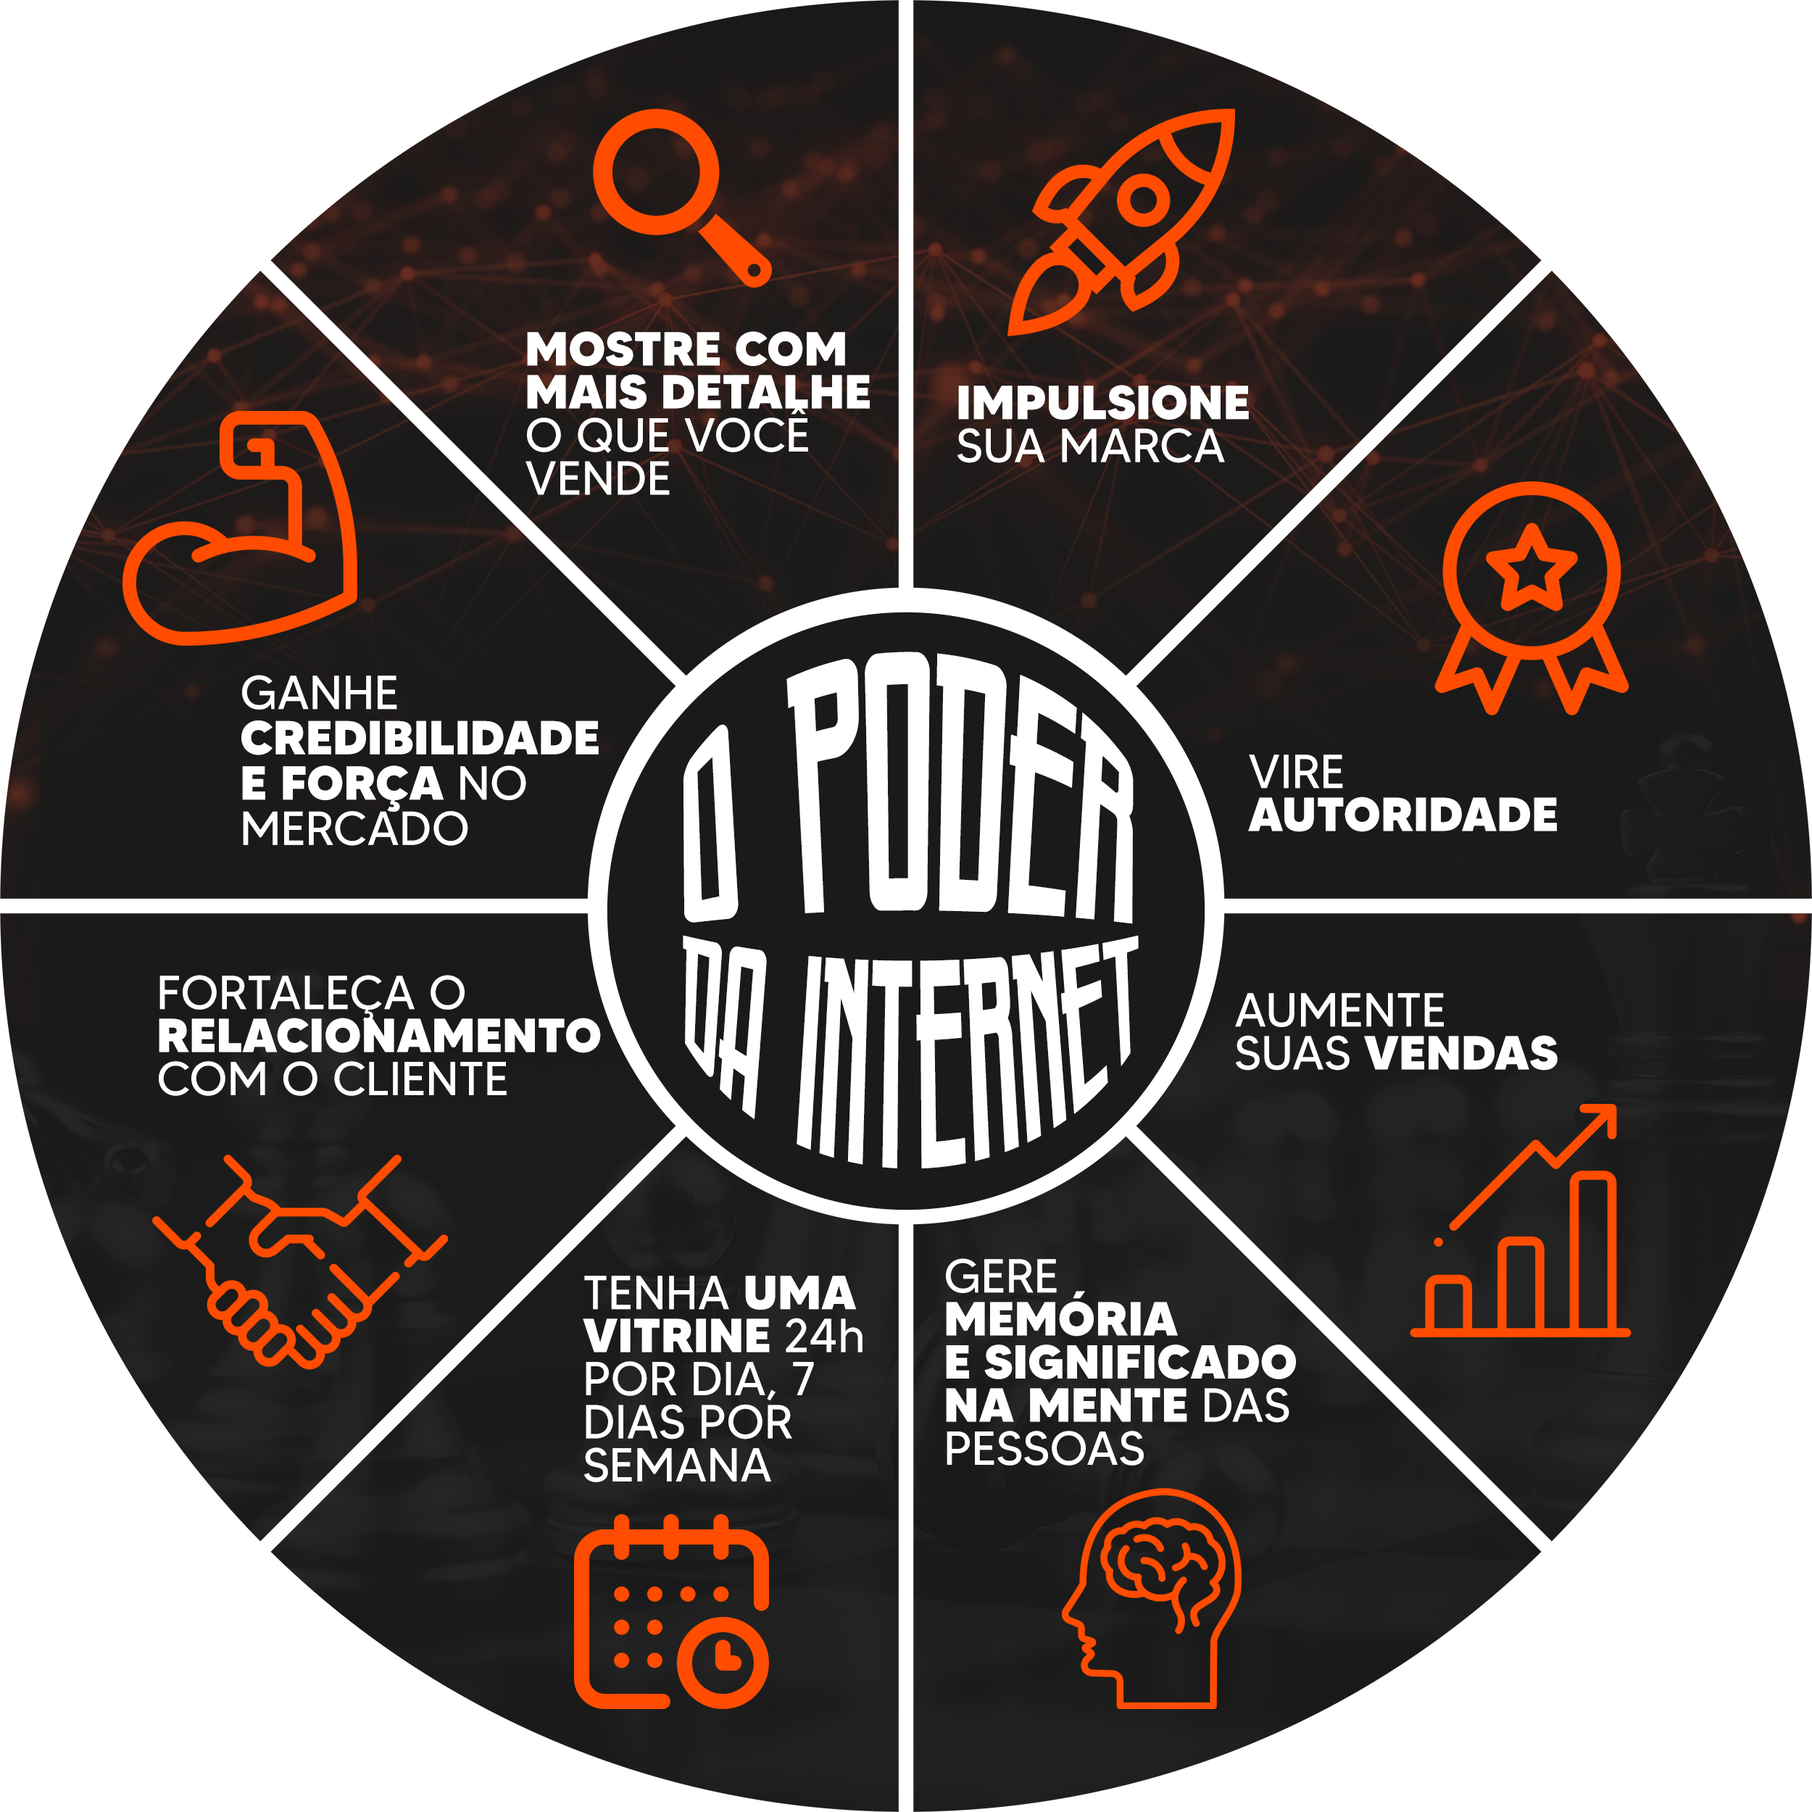
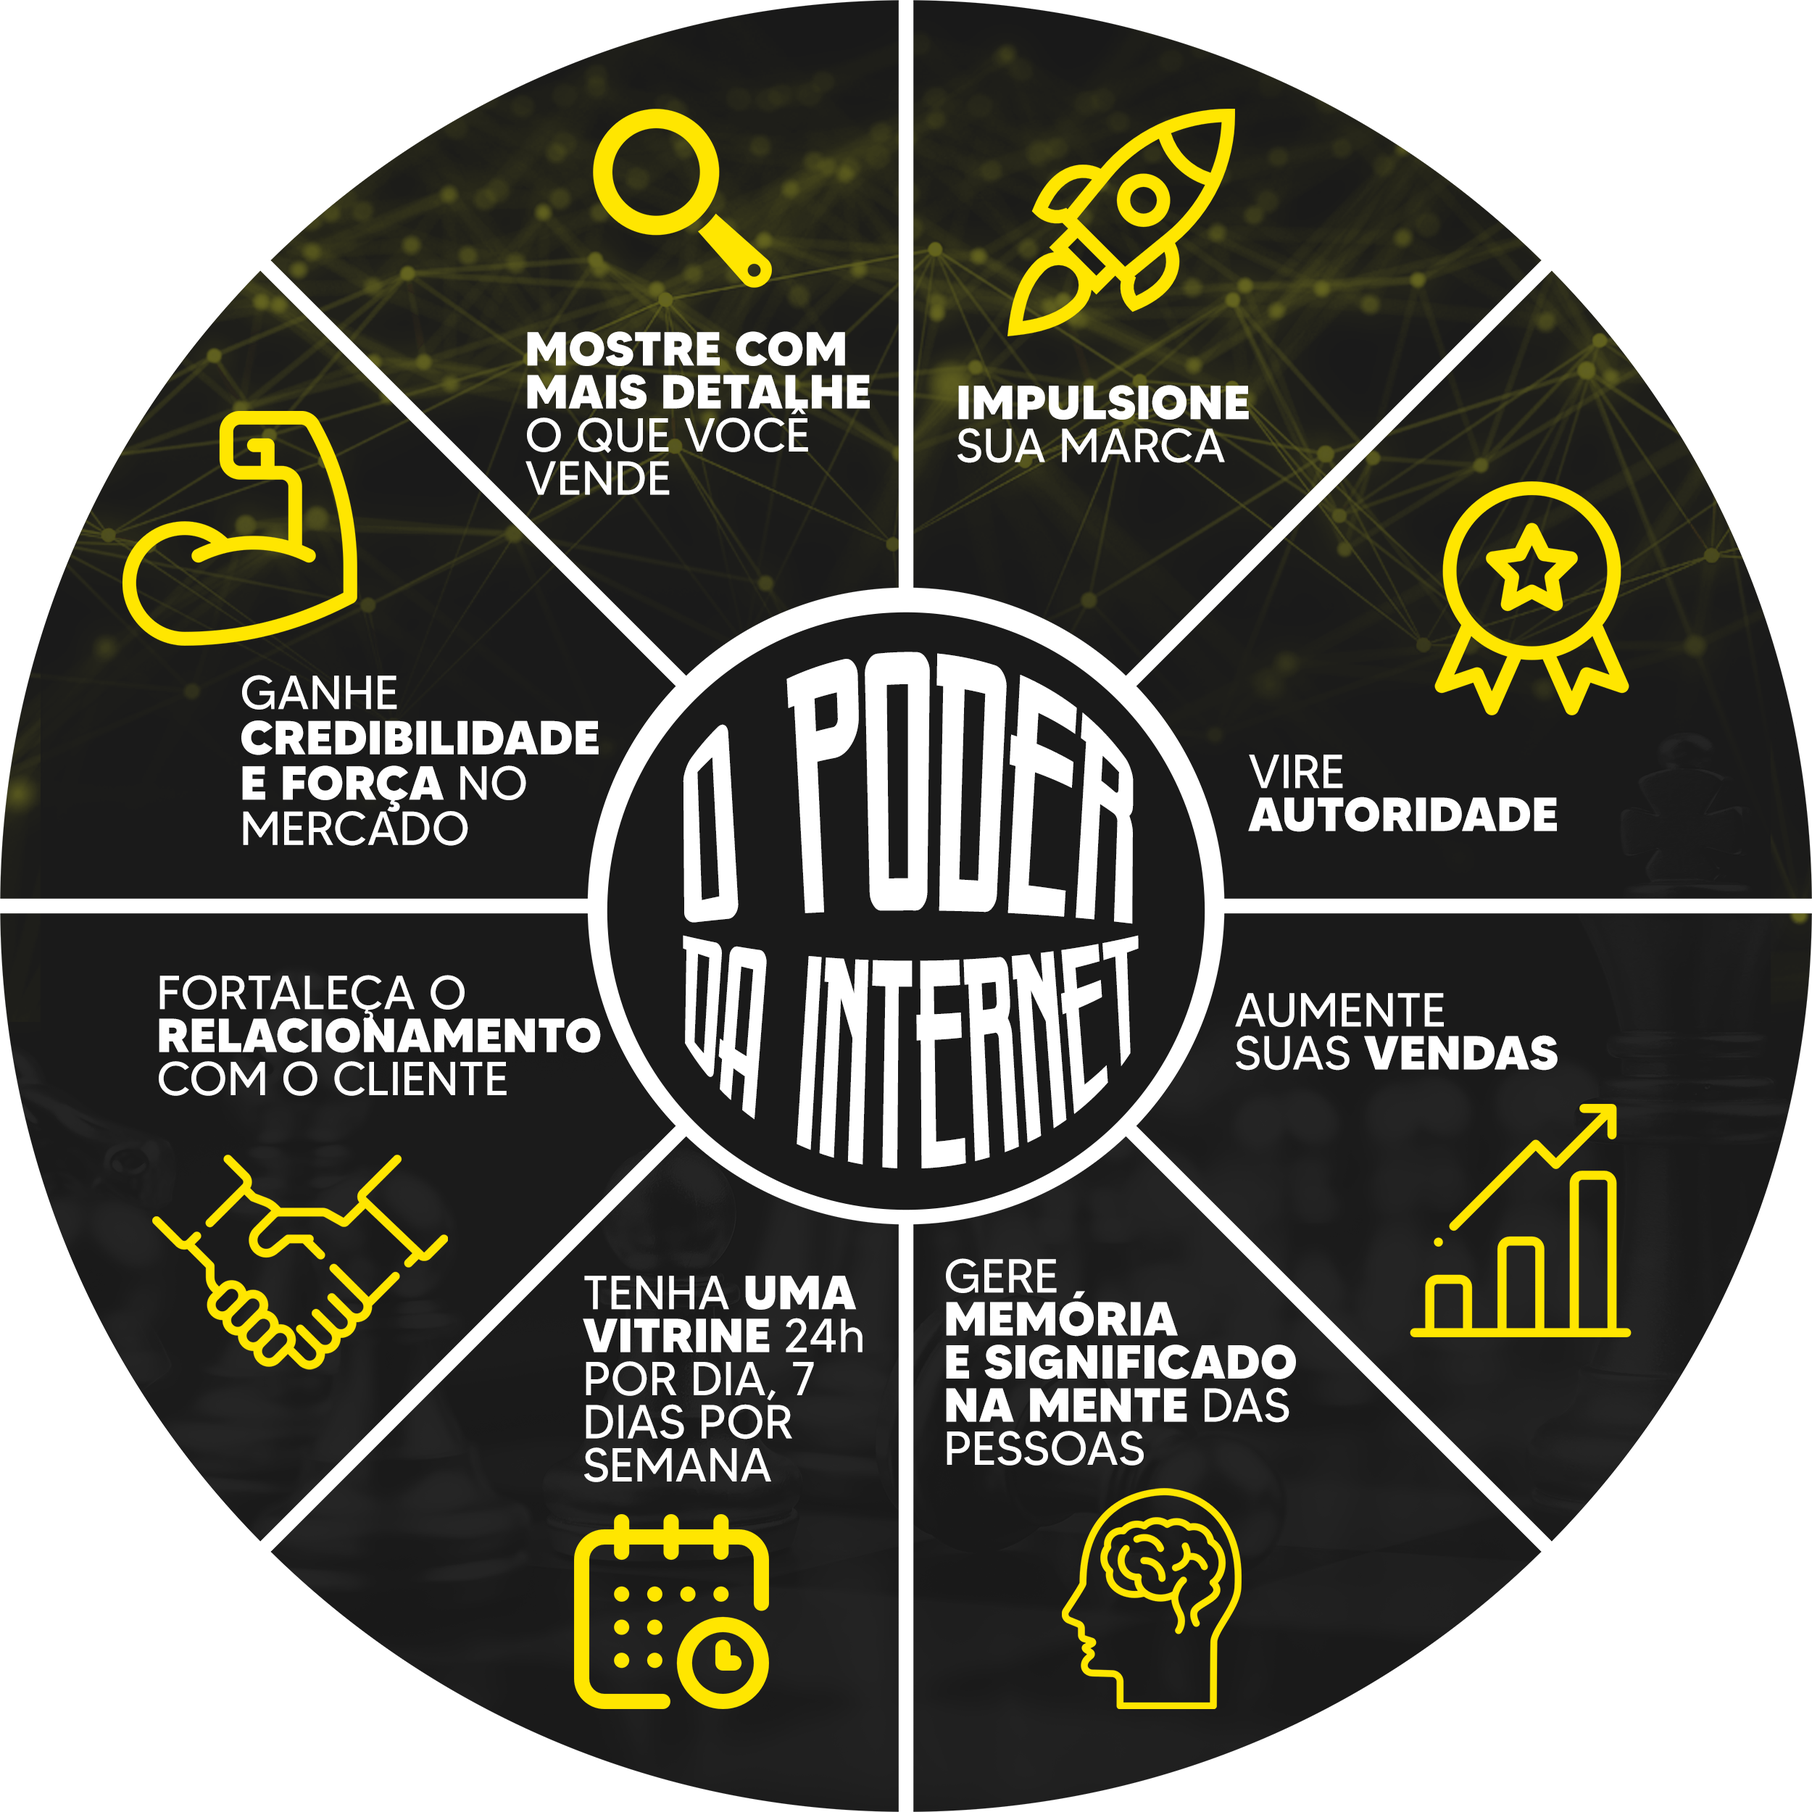
Update marcão informatica/tabuleiro

diff --git a/marcaoinformatica/index.html b/marcaoinformatica/index.html
@@ -177,19 +177,16 @@
                 <div class="col-12 col-md-4 about-media wow zoomIn" data-wow-duration="1.5s" data-wow-delay="1.2s">
                     <span class="about-icon"><a href="javascript:void(0);"><i class="la la-laptop-code"></i></a></span>
                     <h4 class="small-heading main-font">Venda de equipamentos</h4>
-                    <p class="small-text alt-font">Lorem ipsum dolor sit amet, consectetur adipiscing elit.</p>
                 </div>
                 <!-- Second Skill -->
                 <div class="col-12 col-md-4 about-media wow zoomIn" data-wow-duration="1.5s" data-wow-delay="1.5s">
                     <span class="about-icon"><a href="javascript:void(0);"><i class="las la-server"></i></a></span>
                     <h4 class="small-heading main-font">Assistência Técnica</h4>
-                    <p class="small-text alt-font">Lorem ipsum dolor sit amet, consectetur adipiscing elit.</p>
                 </div>
                 <!-- Third Skill -->
                 <div class="col-12 col-md-4 about-media wow zoomIn" data-wow-duration="1.5s" data-wow-delay="1.8s">
-                    <span class="about-icon"><a href="javascript:void(0);"><i class="las la-registered"></i></a></span>
-                    <h4 class="small-heading main-font">Domain Registration</h4>
-                    <p class="small-text alt-font">Lorem ipsum dolor sit amet, consectetur adipiscing elit.</p>
+                    <span class="about-icon"><a href="javascript:void(0);"><i class="las la-edit"></i></a></span>
+                    <h4 class="small-heading main-font">Consultoria de projetos</h4>
                 </div>
             </div>
         </div>
@@ -216,14 +213,13 @@
             <!-- Content -->
             <div class="col-sm-12 col-md-6 pl-md-5 wow fadeInRight order-1 order-md-1" data-wow-duration="1.5s" data-wow-delay=".5s">
                 <div class="about-heading">
-                    <h1 class="heading margin_heading main-font">Conheça um pouco sobre nossa história</h1>
-                    <p class="info">Lorem ipsum dolor sit amet, consectetur adipiscing elit. Nunc mauris arcu. Lorem ipsum dolor sit amet.</p>
-                    <p class="info my-4">Há mais de xx anos oferecendo os melhores serviços 
+                    <h1 class="heading margin_heading main-font">Conheça um pouco sobre nossa loja</h1>
+                    <p class="info my-4">Oferecemos os melhores serviços 
                         para o melhor desempenho de suas atividades, para disponibilizar o que mais combina com seu estilo. 
                         Nos preocupamos com seu aparelho, buscando entregá-lo em ótimo estado e realizando as devidas funções. 
                         Sabemos da importância de revisar ou restaurar os dispositivos, aumentando a vida útil do mesmo, possibilitando um melhor desempenho.
                         </p>
-                    <a href="#prices" class="scroll btn btn-medium btn-rounded btn-blue mt-2">Learn More</a>
+                    <a href="#contact" class="scroll btn btn-medium btn-rounded btn-blue mt-2">Quero conhecer</a>
                 </div>
             </div>
         </div>
@@ -241,7 +237,7 @@
                     <h6 class="counter-num">25+</h6>
                 </div>
                 <h4 class="stats-heading">Fornecedores</h4>
-                <p class="stats-para">Lorem ipsum dolor sit amet.</p>
+                <p class="stats-para">Contamos com diversos fornecedores para melhor lhe atender.</p>
             </div>
             <!-- Second Circle -->
             <div class="col-12 col-lg-4 wow bounceIn wrap-2">
@@ -249,7 +245,7 @@
                     <h6 class="counter-num">1250+</h6>
                 </div>
                 <h4 class="stats-heading">Produtos</h4>
-                <p class="stats-para">Lorem ipsum dolor sit amet.</p>
+                <p class="stats-para">Temos uma gama extensa de produtos para suprir sua demanda.</p>
             </div>
             <!-- Third Circle -->
             <div class="col-12 col-lg-4 wow bounceIn">
@@ -257,7 +253,7 @@
                     <h6 class="counter-num">527+</h6>
                 </div>
                 <h4 class="stats-heading">Clientes</h4>
-                <p class="stats-para">Lorem ipsum dolor sit amet.</p>
+                <p class="stats-para">Temos os mais incríveis clientes, tendo a nossa prova viva da qualidade de serviço.</p>
             </div>
         </div>
     </div>
@@ -286,7 +282,7 @@
         <div class="row text-center">
             <div class="col-12 col-md-10 col-lg-8 offset-md-1 offset-lg-2 wow zoomIn heading-area" data-wow-duration="1s" data-wow-delay=".1s">
                 <h3 class="heading text-center"> Veja alguns de nossos planos.</h3>
-                <p class="text text-center">Lorem ipsum dolor sit amet, consectetur adipiscing elit, sed do eiusmod tempor incididunt ut labore et dolore magna aliqua. Quis ipsum suspendisse ultrices gravida.</p>
+                <p class="text text-center">Confira abaixo o melhor plano para você!</p>
             </div>
         </div>
         <div class="row padding-top-half">
@@ -294,54 +290,54 @@
             <div class="col-12 col-lg-4 wow fadeInLeftBig" data-wow-delay=".4s">
                 <div class="price-item text-center">
                     <div class="price_header">
-                        <p class="price_header_text">Starter Plan</p>
+                        <p class="price_header_text">Diagnóstico</p>
                     </div>
-                    <p class="actual_price">$19<br><span class="small_font">3 Month</span> </p>
+                    <p class="actual_price">R$65<br><span class="small_font">A partir</span> </p>
                     <ul class="price-list">
-                        <li>Modern & Creative Design</li>
-                        <li>Premium Plugins</li>
-                        <li>Clean Code</li>
-                        <li>Responsive Layouts</li>
-                        <li>Google Fonts</li>
-                        <li>Highly Customizable</li>
+                        <li>Desktop</li>
+                        <li>Notebook</li>
+                        <li>Netbook</li>
+                        <li>Hardware em geral</li>
+                        <li>Software em geral</li>
+                        <li>Periféricos</li>
                     </ul>
-                    <a href="#" class="scroll btn btn-medium btn-rounded btn-blue-dark-white mb-5">Load More</a>
+                    <a href="#" class="scroll btn btn-medium btn-rounded btn-blue-dark-white mb-5">Saiba Mais</a>
                 </div>
             </div>
             <!-- Price-2 -->
             <div class="col-12 col-lg-4 wow fadeIn" data-wow-delay=".8s">
                 <div class="price-item-center text-center">
                     <div class="price_header-center">
-                        <p class="price_header_text">Standard Plan</p>
+                        <p class="price_header_text">Combo Diagnóstico + Manutenção</p>
                     </div>
-                    <p class="actual_price">$59<br><span class="small_font">6 Months</span> </p>
+                    <p class="actual_price">R$120<br><span class="small_font">A partir</span> </p>
                     <ul class="price-list">
-                        <li>Modern & Creative Design</li>
-                        <li>Premium Plugins</li>
-                        <li>Clean Code</li>
-                        <li>Responsive Layouts</li>
-                        <li>Google Fonts</li>
-                        <li>Highly Customizable</li>
+                        <li>Desktop</li>
+                        <li>Notebook</li>
+                        <li>Netbook</li>
+                        <li>Hardware em geral</li>
+                        <li>Software em geral</li>
+                        <li>Periféricos</li>
                     </ul>
-                    <a href="#" class="scroll btn btn-medium btn-rounded btn-primary mb-5">Load More</a>
+                    <a href="#" class="scroll btn btn-medium btn-rounded btn-primary mb-5">Saiba Mais</a>
                 </div>
             </div>
             <!-- Price-3 -->
             <div class="col-12 col-lg-4 wow fadeInRightBig" data-wow-delay=".4s">
                 <div class="price-item text-center">
                     <div class="price_header">
-                        <p class="price_header_text">Premium Plan</p>
+                        <p class="price_header_text">Manutenção Corretiva</p>
                     </div>
-                    <p class="actual_price">$99<br><span class="small_font">12 Months</span> </p>
+                    <p class="actual_price">R$90<br><span class="small_font">A partir</span> </p>
                     <ul class="price-list">
-                        <li>Modern & Creative Design</li>
-                        <li>Premium Plugins</li>
-                        <li>Clean Code</li>
-                        <li>Responsive Layouts</li>
-                        <li>Google Fonts</li>
-                        <li>Highly Customizable</li>
+                        <li>Desktop</li>
+                        <li>Notebook</li>
+                        <li>Netbook</li>
+                        <li>Hardware em geral</li>
+                        <li>Software em geral</li>
+                        <li>Periféricos</li>
                     </ul>
-                    <a href="#" class="scroll btn btn-medium btn-rounded btn-blue-dark-white mb-5">Load More</a>
+                    <a href="#" class="scroll btn btn-medium btn-rounded btn-blue-dark-white mb-5">Saiba Mais</a>
                 </div>
             </div>
         </div>
@@ -433,21 +429,17 @@
 <!-- Start Contact -->
 <section class="contact-sec" id="contact">
     <div class="container">
-        <div class="row align-items-center">
-            <div class="col-12 col-md-3 text-center">
+        <div class="row contact-form">
+            <div class="col-12 col-md-4 text-center">
                 <div class="user-img">
                     <img src="img/logo-branco.png" alt="img">
                 </div>
                 <h4 class="user-name">Marcão Informática</h4>
                 <p class="user-designation">contato@marcaoinformatica.com.br</p>
-                <p class="user-designation">(69) 9 631 123 4567</p>
+                <p class="user-designation">(69) 3322-7371</p>
             </div>
-            <div class="col-12 col-md-9">
-                <div class="row">
-                    <div class="col-12" id="result"></div>
-                    <div class="col-12 col-md-3">
-                    </div>
-                    <div class="col-12 col-md-6 contact-form">
+            <div class="col-12 col-md-5 contact-form">
+                    <div class="">
                         <h3 class="mt-5 mb-5">Entre em contato conosco.</h3>
                         <a href="javascript:void(0);" class="btn btn-big btn-rounded btn-trans-white rounded-pill w-100 contact_btn main-font">
                             <i style="margin-right: 5px;" class="fab fa-whatsapp"></i>Whatsapp

diff --git a/tabuleiro/css/main.css b/tabuleiro/css/main.css
@@ -11,7 +11,7 @@
 
 ::-webkit-scrollbar-track {
     width: 8px;
-    background:white;
+    background:  #ffffff;
     border-left: 0 solid white;
     border-right: 0 solid white;
 }
@@ -151,14 +151,14 @@
 .inner-page::before,
 .case-study  {
 	background-image: -webkit-linear-gradient(45deg, #f18cff, #af46fc);
-	background-image: -o-linear-gradient(45deg, #f18cff, #af46fc);
+	background-image: -o-linear-gradient(45deg, #ffe600, #f0c032);
 	background-image: linear-gradient(45deg, #ffe600, #f0c032);
 	background-repeat: repeat-x;
 }
 
 .case-study .video-play-btn{
-	background-image: -webkit-linear-gradient(45deg, #f18cff, #af46fc);
-	background-image: -o-linear-gradient(45deg, #f18cff, #af46fc);
+	background-image: -webkit-linear-gradient(45deg, #ffe600, #ff9500);
+	background-image: -o-linear-gradient(45deg, #ffe600, #ff9500);
 	background-image: linear-gradient(45deg, #ffe600, #ff9500);
 	background-repeat: repeat-x;
 }
@@ -191,9 +191,9 @@
 .icon-container.grad-style-ef-light::after,
 .body-bg-style-3.inner-page::before,
 .small-agency-case-study::after {
-	background-image: -webkit-linear-gradient(45deg, #9a9fff, #6245fe);
-	background-image: -o-linear-gradient(45deg, #9a9fff, #6245fe);
-	background-image: linear-gradient(45deg, #ffe600, #f1c337);
+	background-image: -webkit-linear-gradient(45deg, #ffe600, #f1c337);
+	background-image: -o-linear-gradient(45deg, #ffe600, #f1c337);
+	background-image: linear-gradient(125deg, #ffe600, #f1cf37);
 	background-repeat: repeat-x;
 }
 

diff --git a/tabuleiro/index.html b/tabuleiro/index.html
@@ -79,11 +79,9 @@
         </svg>
         
         <div class="video-play-bg grad-style-cd">
-            <!--
-            <a href="http://www.youtube.com/watch?v=F85Az1VXbvg" class="video-play-btn video-popup">
+            <a href="https://www.youtube.com/watch?v=v-AY3yH_Ubw" class="video-play-btn video-popup">
                 <i class="fas fa-play"></i>
             </a>
-            -->
         </div>
         <!-- End of .video-play-bg -->
         <div class="container">
@@ -189,7 +187,7 @@
     <!-- End of .cards medos -->
 
     <!-- Parceiros -->
-    <div class="clients light-grey-bg">
+    <div class="clients">
         <div class="m-b-90 m-t-100 container text-center">
             <h3>Clientes que a Agência Tabuleiro gerencia as jogadas digitais</h3>
             <div class="row justify-content-center clients-wrapper">

diff --git a/marcaoinformatica/css/style.css b/marcaoinformatica/css/style.css
@@ -1251,6 +1251,7 @@ header a.logo img {
     background: #e52d27;
     background: -webkit-linear-gradient(to right, #b31217, #e52d27);
     background: linear-gradient(to right, #b31217, #e52d27);
+    display: flex;
 }
 
 .contact-sec .user-img{
@@ -1284,12 +1285,13 @@ header a.logo img {
     background: transparent;
 }
 
-.contact-sec .contact-form .form-control{
-    border: none;
-    border-radius: 0;
-    padding-left: 0;
-    letter-spacing: 1px;
-    border-bottom: 1px solid rgba(255,255,255,0.3);
+.contact-form {
+    display: flex;
+    flex-wrap: wrap;
+    justify-content: space-between;
+    align-items: center;
+    align-content: center;
+    flex-direction: row;
 }
 
 ::placeholder { /* Chrome, Firefox, Opera, Safari 10.1+ */
